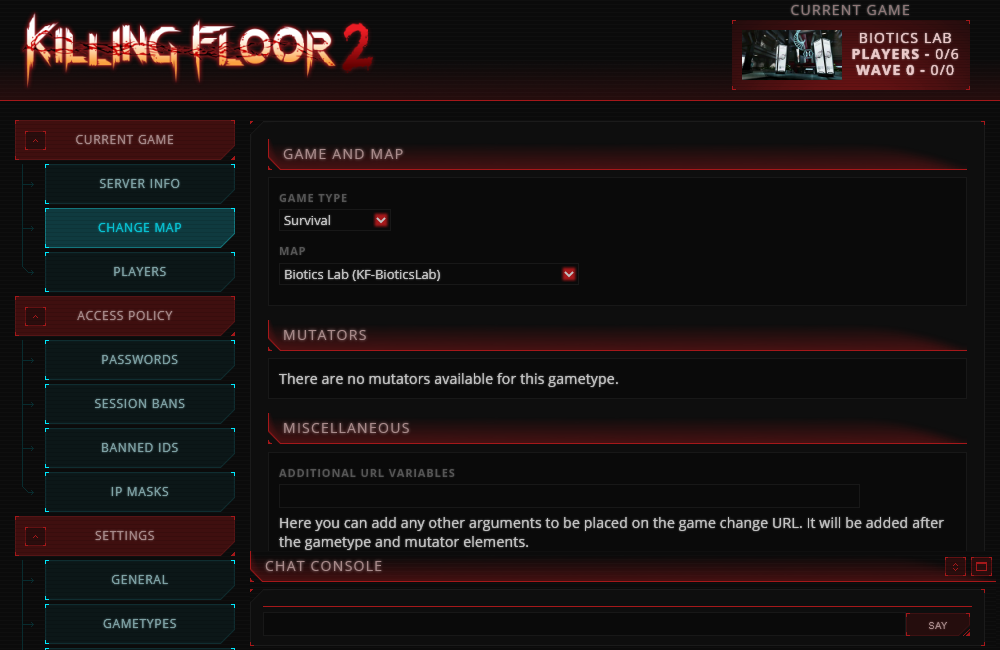
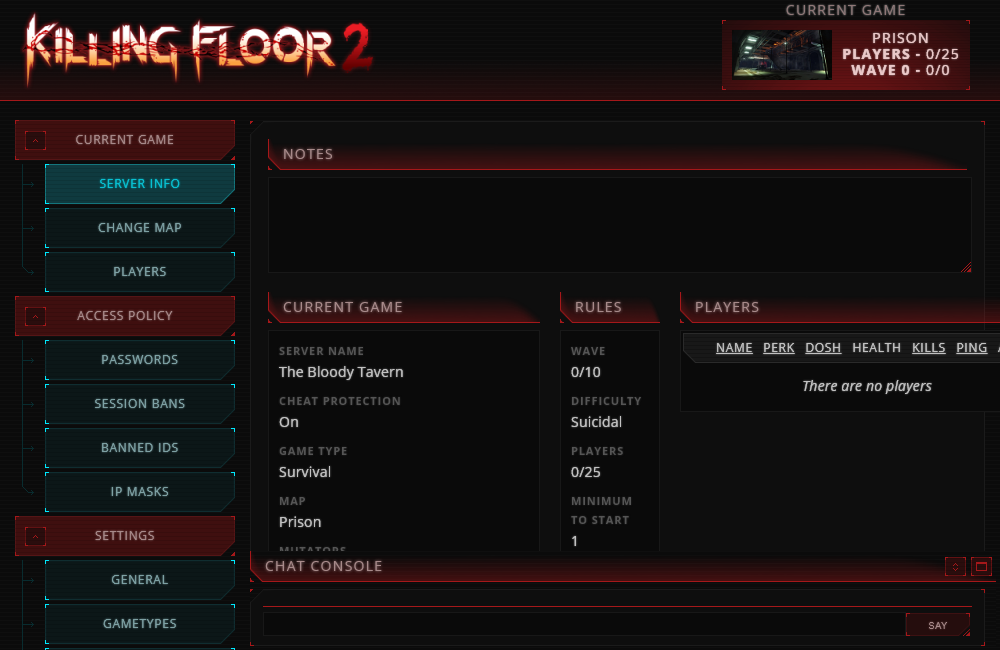
added kf2login command to show screenshot of webadmin for KF2 server

diff --git a/bot.js b/bot.js
@@ -2,8 +2,7 @@ const Discord = require('discord.js');
 const client = new Discord.Client();
 const { findPrice } = require('./price.js');
 const { showWeather } = require('./weather.js');
-const { strict } = require('assert');
-const { serverParams } = require('./kf2.js');
+const { serverParams, kf2Login } = require('./kf2.js');
 const { Server, gamestatus, killServer, startServer } = require('./pid.js');
 require('dotenv').config();
 
@@ -30,6 +29,12 @@ client.on('message', msg => {
   }
 
   if (msg.content.includes("!startserver")) {
+    
+    try {
+      if (msg.member.hasPermission('ADMINISTRATOR')) console.log('User is an admin.');
+    } catch {
+      console.log("user is not ADmin:");
+    }
     
     console.log(msg.content);
 
@@ -58,6 +63,10 @@ client.on('message', msg => {
 
   if (msg.content == "!kf2help") {
     msg.channel.send("https://i.imgur.com/Of5nJVs.png");
+  }
+
+  if (msg.content == "!kf2login") {
+    kf2Login(msg, embed);
   }
 });
 

diff --git a/pid.js b/pid.js
@@ -36,23 +36,21 @@ const COMMAND = 'kfserver';
 
 // Returns KF2 game arguments such as the map, mutators, gamemode and etc...
 async function gamelookup() {
-	var ARGUMENTS = [];
+
 	ps.lookup({
     command: COMMAND
     }, function(err, resultList ) {
     if (err) {
         throw new Error( err );
     }
-	//console.log(resultList);
+
 	console.log("results:")
 	console.log(resultList[0]);
+	
 	fs.writeFile('kf2statuslog.txt', JSON.stringify(resultList[0]), function (err) {
 	if (err) return console.log(err);
 	  console.log('wrote to kf2statuslog.txt');
 	});
-	// fs.close('kf2statuslog.txt', function (err) {
-	// 	if (err) return console.log(err);
-	// })
 	});
 	
 }

diff --git a/kf2.js b/kf2.js
@@ -66,5 +66,12 @@ module.exports = {
     serverParams: async function(msg, embed, params) {
         changeParams(params);
         msg.channel.send({files: ["./example.png"]});
+    },
+// !kf2login command to show screenshot of current game
+    kf2Login: async function (msg, embed) {
+        msg.channel.send("Logging into KF2 Server, Please wait...")
+        await login();
+        msg.channel.send({files: ["./example.png"]});
+        console.log("kf2Login function executed");
     }
 }
